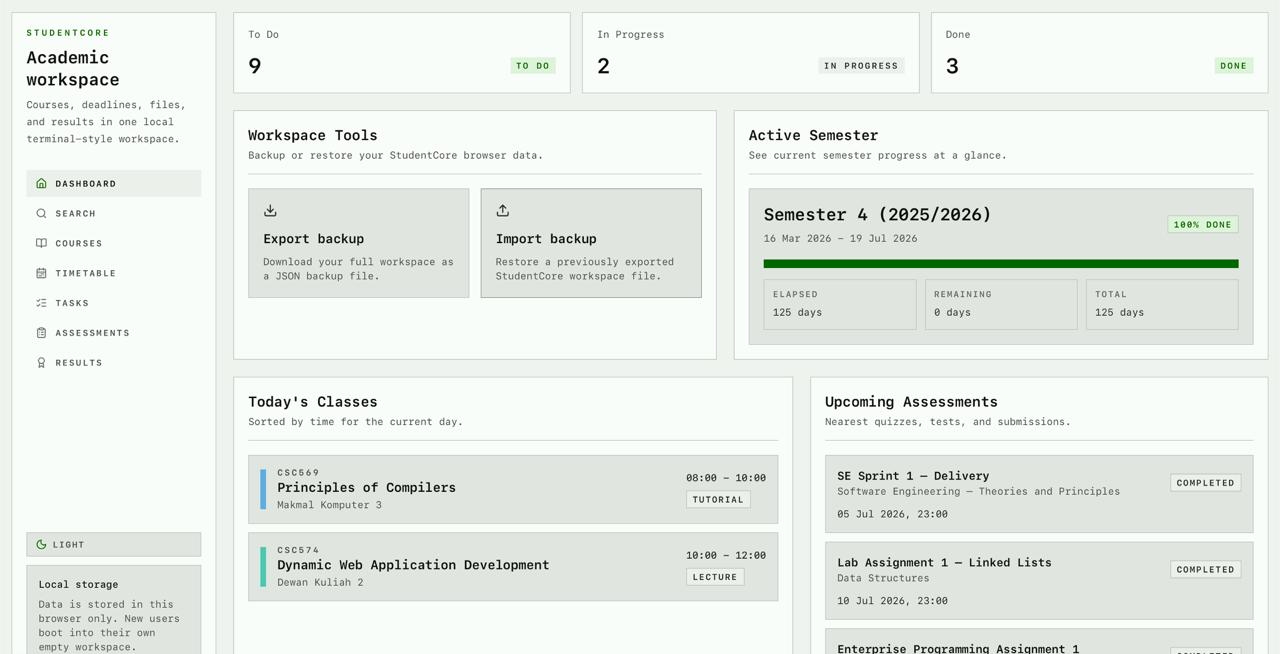
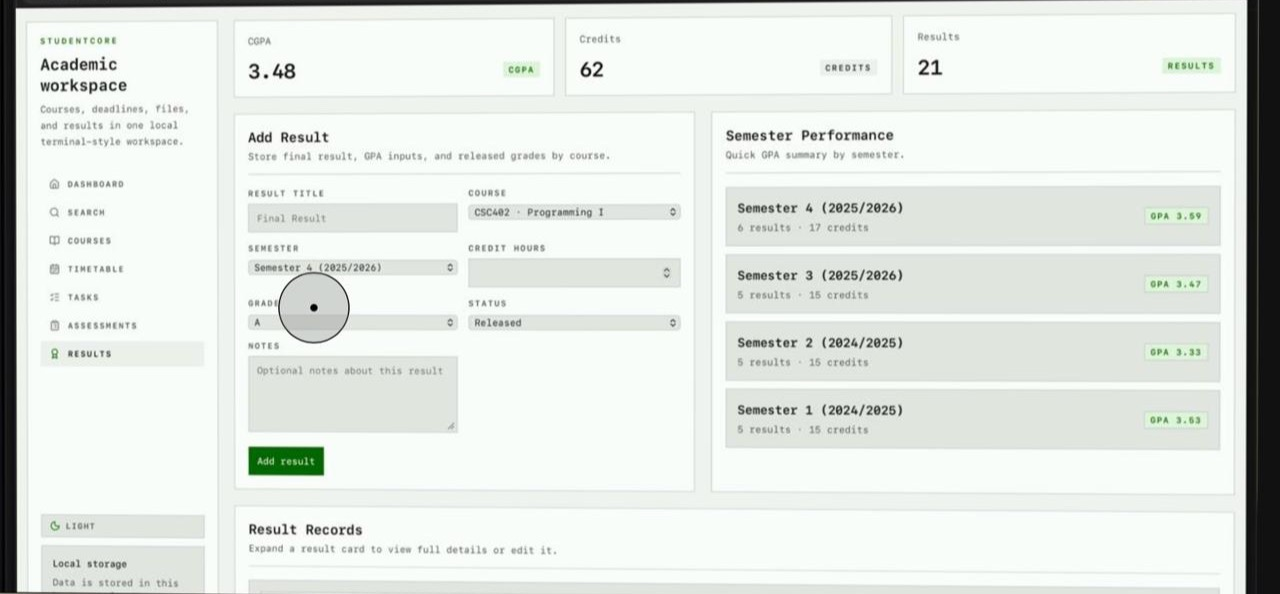
Replace StudentCore showcase screenshot

diff --git a/app/page.tsx b/app/page.tsx
@@ -156,7 +156,7 @@ const commitmentScreens = [
 ] as const;
 
 const studentScreenDefs = [
-  { src: "/projects/student-01.jpg", alt: "StudentCore System dashboard overview", width: 1280, height: 654 },
+  { src: "/projects/student-01.jpg", alt: "StudentCore System dashboard overview", width: 1280, height: 594 },
   { src: "/projects/student-02.jpg", alt: "StudentCore courses and schedule view", width: 1280, height: 654 },
   { src: "/projects/student-03.jpg", alt: "StudentCore task and assessment tracker", width: 1280, height: 656 },
   { src: "/projects/student-04.jpg", alt: "StudentCore file management workspace", width: 1280, height: 658 },
